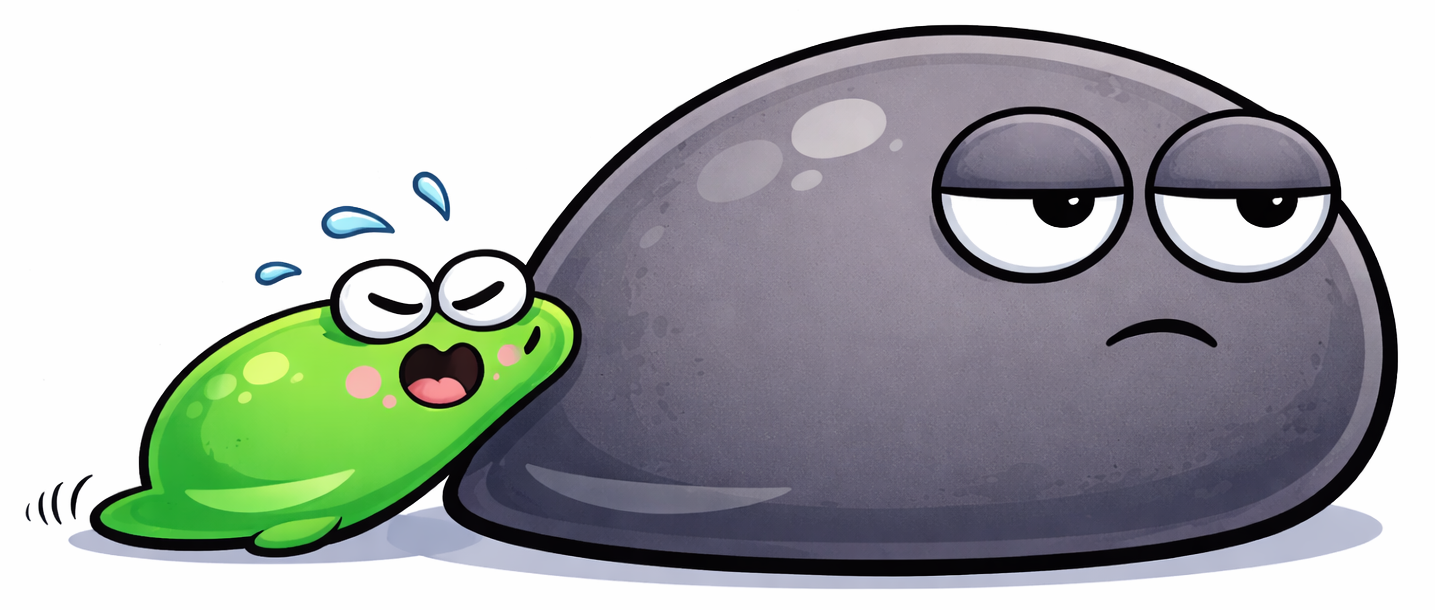
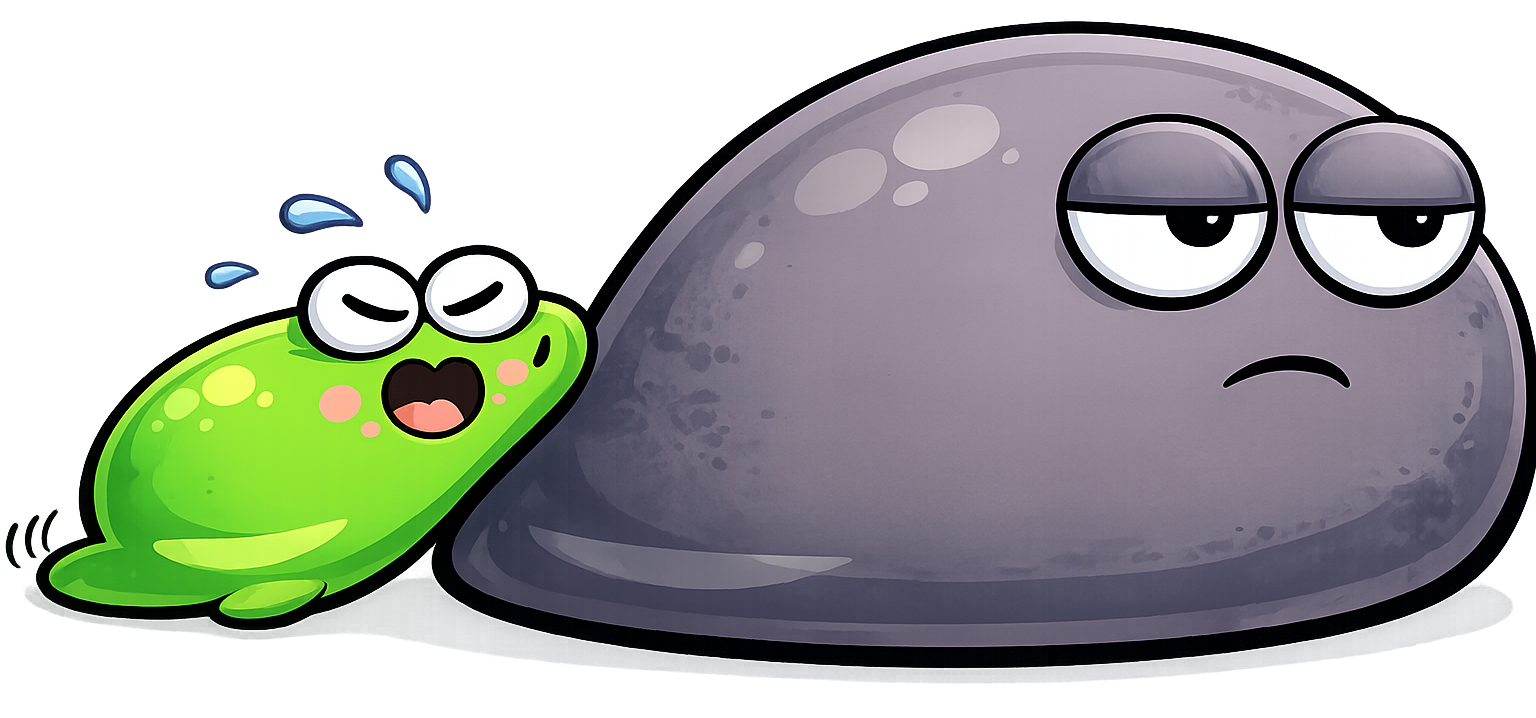
Add mascots on the pages

diff --git a/src/css/custom.css b/src/css/custom.css
@@ -92,9 +92,9 @@ pre > code {
   --docusaurus-highlighted-code-line-bg: rgba(0, 0, 0, 0.3);
 }
 
-.theme-doc-markdown img[alt="Slug mascot"] {
+.theme-doc-markdown img[alt="slug_mascot"] {
   display: block;
   margin: 0 auto;
-  width: min(400px, 100%);
+  width: min(500px, 100%);
   height: auto;
 }

diff --git a/docs/core-concepts/tool-use-and-agentic-coding.md b/docs/core-concepts/tool-use-and-agentic-coding.md
@@ -3,8 +3,8 @@ sidebar_position: 5
 ---
 
 # Tool Use and Agentic Coding
-<div style={{maxWidth: '600px', margin: '0 auto'}}>
-![A single input-output exchange](./img/slug_tools.png)
+<div style={{maxWidth: '200px', margin: '0 auto'}}>
+![A single input-output exchange](./img/slug_tools2.png)
 </div>
 
 Language models can generate text, but they can't read files, run tests, or execute commands on their own. **Tool use** is the mechanism that bridges this gap: it allows a model to request that external code be run on its behalf. When tool use is combined with a loop that lets the model act, observe, and act again, you get **agentic coding**: an AI that can autonomously complete multi-step software engineering tasks.

diff --git a/docs/core-concepts/temperature-and-sampling.md b/docs/core-concepts/temperature-and-sampling.md
@@ -3,10 +3,10 @@ sidebar_position: 2
 ---
 
 # Temperature and Sampling
-<div style={{maxWidth: '600px', margin: '0 auto'}}>
-![A single input-output exchange](./img/slug_temperature.png)
-</div>
 
+<div style={{maxWidth: '250px', margin: '0 auto'}}>
+![mascot measuring the temperature](./img/slug_thermo.png)
+</div>
 Language models don't retrieve pre-written answers. They **generate** text one token at a time, choosing each token based on a probability distribution. The parameters that control how the model makes these choices (temperature, top-p, and top-k) directly affect the quality and consistency of the code you get back.
 
 ## How models generate text

diff --git a/docs/core-concepts/context-window.md b/docs/core-concepts/context-window.md
@@ -5,6 +5,9 @@ sidebar_position: 3
 import ModelPricingTable from '@site/src/components/ModelPricingTable';
 
 # Context Window
+<div style={{maxWidth: '200px', margin: '0 auto'}}>
+![mascot measuring the temperature](./img/slug_cleaning.png)
+</div>
 
 The **context window** is the total amount of text (measured in [tokens](./tokens-and-tokenization.md)) that a language model can process in a single request. It includes everything: your input, the model's previous responses, system instructions, and any other context. Think of it as the model's working memory, everything it can "see" when generating a response.
 

diff --git a/docs/core-concepts/tokens-and-tokenization.md b/docs/core-concepts/tokens-and-tokenization.md
@@ -4,8 +4,8 @@ sidebar_position: 1
 
 # Tokens and Tokenization
 
-<div style={{maxWidth: '600px', margin: '0 auto'}}>
-![A single input-output exchange](./img/slug_tokenization.png)
+<div style={{maxWidth: '250px', margin: '0 auto'}}>
+![Mascot sorting tokens](./img/slug_token.png)
 </div>
 Tokens are the fundamental unit that language models operate on. Everything you send to a model and everything it sends back is measured in tokens.
 

diff --git a/docs/intro.md b/docs/intro.md
@@ -4,12 +4,8 @@ slug: /
 ---
 
 # Introduction
-
-![Slug mascot](/img/slug_mascot.svg)
-
-<!-- Welcome to **AI-Assisted Coding**, a practical guide to writing code with AI. -->
-
-<!-- ## What is AI-Assisted Coding? -->
+<!-- DO NOT change the alt text it is used in the css -->
+![slug_mascot](/img/slug_mascot.svg)
 
 AI-assisted coding uses large language models (LLMs) to help you write, review, debug, and refactor code.
 

diff --git a/docs/core-concepts/system-prompts-and-roles.md b/docs/core-concepts/system-prompts-and-roles.md
@@ -4,7 +4,7 @@ sidebar_position: 4
 
 # System Prompts and Roles
 
-<div style={{maxWidth: '600px', margin: '0 auto'}}>
+<div style={{maxWidth: '400px', margin: '0 auto'}}>
 ![A single input-output exchange](./img/slug_system_prompt.png)
 </div>
 
